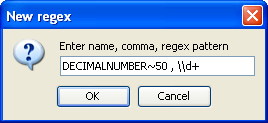
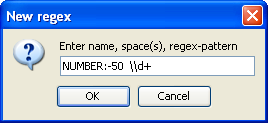
The priority value of regex tokens can now be positive (higher than default) as well as negative (lower than default). The documentation has also been changed (see EditingTheGrammarTree.html#RegexTokenDisambiguation).
git-svn-id: https://svn.java.net/svn/vll~svn/trunk@246 c0272bae-d8de-c28f-bcdf-8b42aff4940e

Changed region(s): [[0.2388, 0.4878, 0.7463, 0.5854], [0.4478, 0.3415, 0.8955, 0.439]]

diff --git a/VLLS/docs/EditingTheGrammarTree.html b/VLLS/docs/EditingTheGrammarTree.html
@@ -398,14 +398,15 @@ space (and/or tab) characters</font>
       either globally scoped or privately scoped (see below).
     </p>
 
-    <h3 id="RegexTokenDisambiguation">Regex Token Disambiguation</h3>
+<h3 id="RegexTokenDisambiguation">Regex Token Disambiguation</h3>
 
-    <p>
-      Two or more <i>Regex</i> tokens will sometimes match the same bit of input. 
-      You can assign a <i>priority</i> value to enable disambiguation of such tokens. 
-      To assign a priority to a <i>Regex</i> token append a tilde (~) and a number 
-      to the token's name as in Figure-9 below.
-    </p>
+<p>
+Two or more <i>Regex</i> tokens will sometimes match the same bit of input. 
+You can assign a <i>priority</i> value to enable disambiguation of such tokens. 
+To assign a priority to a <i>Regex</i> token append a <strike>tilde (~) and a number</strike> 
+<u>colon, an optional minus sign, and an integer</u> (<font color="red">Version 7.02 onwards</font>)
+to the token's name as in Figure-9 below.
+</p>
 
 <p>
 <font color="red"><u>Change in Version 7.01</u>: The dialog in Figure-9 below 
@@ -418,12 +419,13 @@ space (and/or tab) characters</font>
       <i>Figure-9. Regex token with priority</i>
     </p>
 
-    <p>
-      When two or more tokens match the same input, the lexer favors the token with 
-      the numerically highest priority. A token without an explicitly 
-      defined priority has a priority of 0. Only <i>Regex</i> tokens can have 
-      a priority value. 
-    </p>
+<p>
+When two or more tokens match the same input, the lexer selects the token with 
+the numerically highest priority. A token without an explicitly 
+defined priority has a priority of 0. So explicitly assigned priority values can be 
+higher or lower than the default value (positive or negative priority values). 
+Only <i>Regex</i> tokens can have a priority value. 
+</p>
 
     <h3 id="ModifyingTokenPatterns">Modifying Token Patterns</h3>
 
